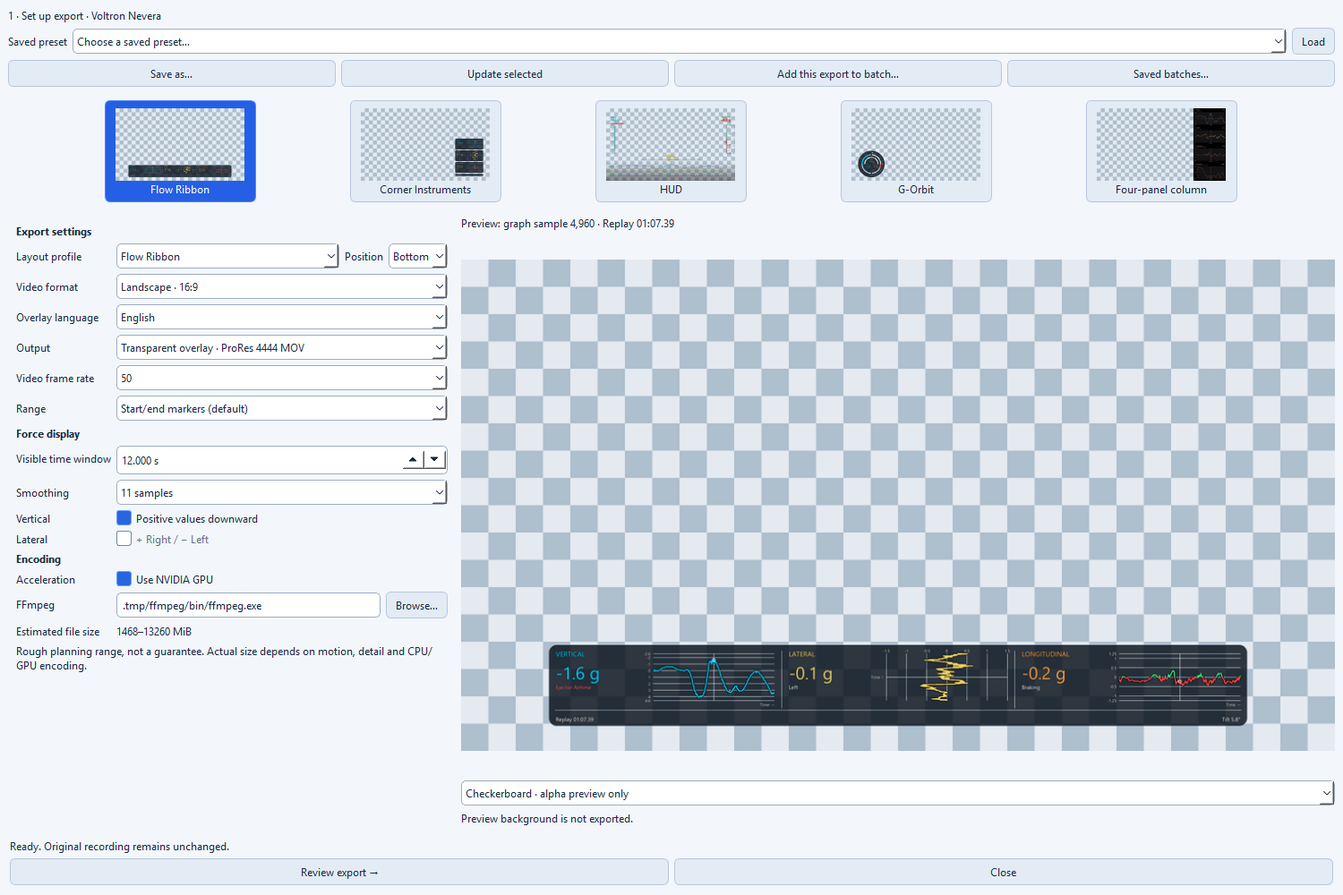
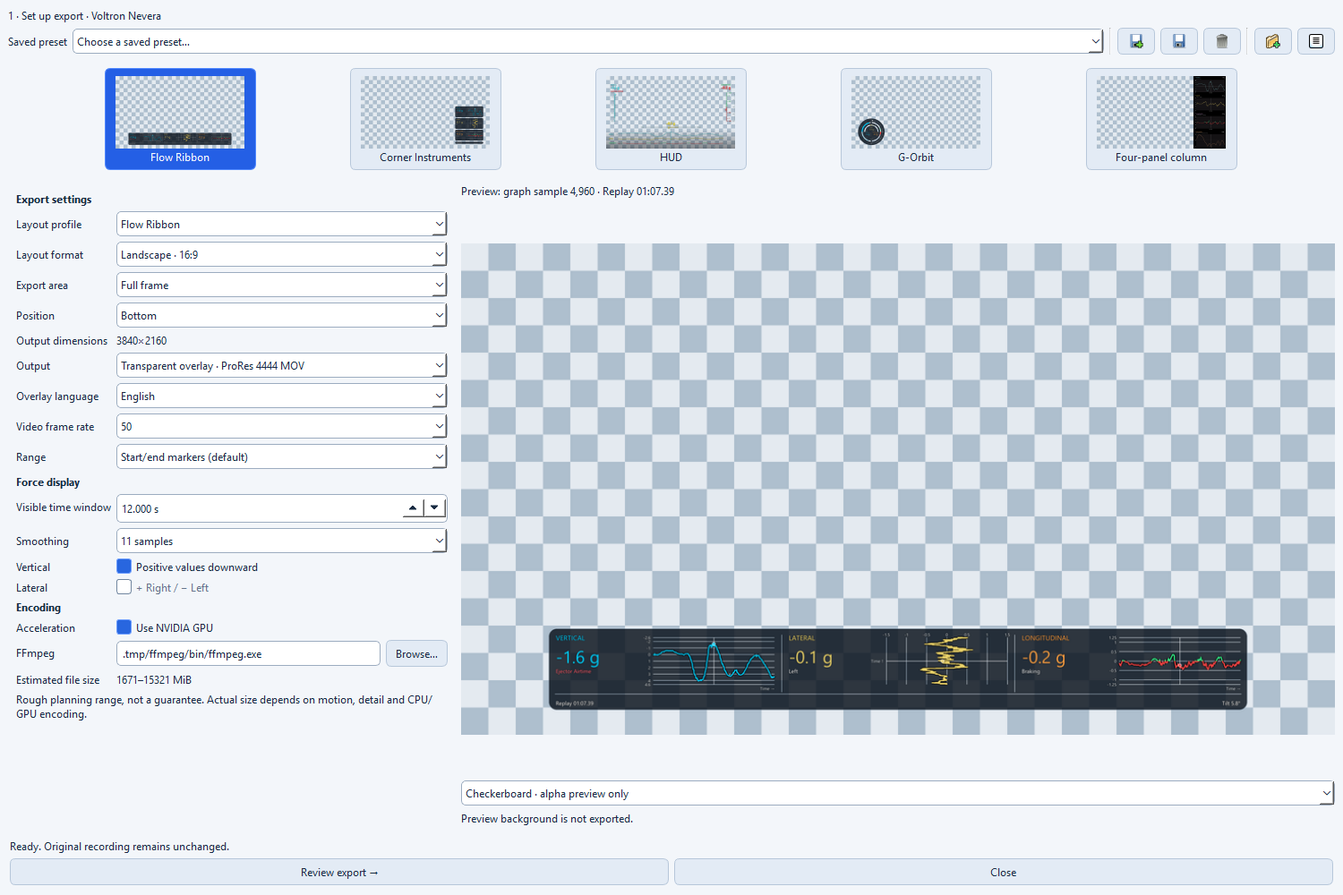
:memo: docs(rendering): finalize content-area export documentation
Why:
Align maintained documentation and reference images with the accepted export workflow.

Changes:
- Describe native dimensions, placement, estimates and supported layout formats.
- Rename the layout gallery and distinguish layouts from UI themes in the glossary.
- Refresh the assistant reference and verify Content-area export handoff.
- Align skill spelling across Markdown and instructions language ids.
- Record owner acceptance of all eight implementation steps.

diff --git a/scripts/capture_app_reference.py b/scripts/capture_app_reference.py
@@ -29,7 +29,8 @@ from ride_forces_analyzer.runtime.config import AppSettings
 from ride_forces_analyzer.storage.exports import ExportStore
 from ride_forces_analyzer.storage.preferences import Appearance
 from ride_forces_analyzer.ui.exports.video import ExportDialog
-from ride_forces_analyzer.rendering.layouts.contracts import LayoutPosition
+from ride_forces_analyzer.ui.dialogs.gps import GpsDialog
+from ride_forces_analyzer.rendering.layouts.contracts import ExportExtent, LayoutPosition
 from ride_forces_analyzer.ui.explorer.window import ExplorerWindow
 
 ROOT = Path(__file__).resolve().parents[1]
@@ -344,7 +345,7 @@ def capture_reference(
                     output.mkdir(parents=True, exist_ok=True)
                     window.gps_button.click()
                     gps_window = window.gps_window
-                    if gps_window is None:
+                    if not isinstance(gps_window, GpsDialog):
                         raise RuntimeError("Voltron GPS overview is unavailable")
                     wait_for(application, lambda: gps_window.worker is None)
                     gps_window.load_map()
@@ -430,8 +431,8 @@ def capture_reference(
                         newline="\n",
                     )
                     return
-                for appearance, name in ((0, "dark"), (1, "light")):
-                    window.set_appearance(appearance)
+                for appearance_index, name in ((0, "dark"), (1, "light")):
+                    window.set_appearance(appearance_index)
                     wait_for(application, lambda: window.theme.name == name)
                     save_widget(application, window, output / f"workspace-{name}.png")
                 dialog = ExportDialog(
@@ -444,6 +445,9 @@ def capture_reference(
                 dialog.setMinimumSize(*EXPORT_SIZE)
                 dialog.resize(*EXPORT_SIZE)
                 dialog.form.layout_profile.setCurrentIndex(0)
+                dialog.form.extent.setCurrentIndex(
+                    dialog.form.extent.findData(ExportExtent.FULL_FRAME.value),
+                )
                 dialog.form.position.setCurrentIndex(
                     dialog.form.position.findData(LayoutPosition.BOTTOM.value),
                 )
@@ -481,6 +485,7 @@ def capture_reference(
                     "workspace_size": WORKSPACE_SIZE,
                     "export_size": EXPORT_SIZE,
                     "layout": "ribbon",
+                    "extent": dialog.form.settings().extent.value,
                     "position": dialog.form.position.currentData(),
                     "aspect": "landscape",
                     "output": "transparent",

diff --git a/tests/ui/test_export.py b/tests/ui/test_export.py
@@ -2,7 +2,13 @@
 
 from ride_forces_analyzer.rendering.model import StandardFrameRate
 
-from ride_forces_analyzer.rendering.model import ExportLayout, VideoAspect, ExportExtent
+from ride_forces_analyzer.rendering.model import (
+    ExportLayout,
+    VideoAspect,
+    ExportExtent,
+    ExportTimeline,
+)
+from ride_forces_analyzer.rendering.layouts import resolve_geometry
 from ride_forces_analyzer.rendering.progress import ExportPhase, ExportProgress
 from ride_forces_analyzer.analysis.preparation import (
     source_app_configuration,
@@ -324,6 +330,8 @@ def test_export_file_dialogs_preserve_paths_and_successful_output_folder(
     dialog = window.export_window
     assert isinstance(dialog, ExportDialog)
     preview_ready(dialog)
+    dialog.form.extent.setCurrentIndex(dialog.form.extent.findData(ExportExtent.CONTENT_AREA.value))
+    preview_ready(dialog)
     dialog.next.click()
     with TemporaryDirectory(dir=".tmp") as temporary:
         output = Path(temporary).resolve() / "custom.mov"
@@ -338,7 +346,10 @@ def test_export_file_dialogs_preserve_paths_and_successful_output_folder(
         def encoder(path: Path | None = None) -> Path:
             return Path(__file__)
 
-        def export(*args: object, **kwargs: object) -> Path:
+        def export(timeline: ExportTimeline, target: Path, **kwargs: object) -> Path:
+            assert timeline.settings.extent is ExportExtent.CONTENT_AREA
+            assert resolve_geometry(timeline.settings).output_size == (3072, 360)
+            assert target == output
             assert kwargs["overwrite"] is output.exists()
             output.write_bytes(b"complete video")
             return output

diff --git a/tests/ui/test_reference_screenshots.py b/tests/ui/test_reference_screenshots.py
@@ -52,6 +52,7 @@ def test_capture_cli_is_repeatable_and_preserves_original_and_preferences() -> N
             assert manifest["smoothing"] == 11 and manifest["language"] == "en"
             assert manifest["layout"] == "ribbon" and manifest["fps"] == 50
             assert manifest["position"] == "bottom"
+            assert manifest["extent"] == "full_frame"
             pixels: dict[str, bytes] = {}
             for filename, size in (
                 ("workspace-dark.png", (1600, 1100)),

diff --git a/docs/implementation/VIDEO_EXPORT.md b/docs/implementation/VIDEO_EXPORT.md
@@ -24,14 +24,15 @@ the [roadmap](../ROADMAP.md) owns planned scope.
 
 ## Supported output
 
-| Setting            | Contract                                                                                                   |
-| ------------------ | ---------------------------------------------------------------------------------------------------------- |
-| Output             | One video per recording; transparent ProRes 4444 MOV (default) or independent opaque H.264 MP4             |
-| Canvas             | HUD: native 1920×1080 / 1080×1920; other profiles: 3840×2160 / 2160×3840                                   |
-| Profiles           | Flow Ribbon (assistant opening default), Corner Instruments, HUD, G-Orbit, four-panel column               |
-| Frame-rate choices | 23.976/24/25/30/50/59.94/60 fps; default 50 without a valid saved preference                               |
-| Context window     | 1–60 s, default 12; shared source position and centered cursor in time plots                               |
-| Alignment          | Manual in DaVinci Resolve; source-video ingestion/synchronization excluded                                 |
+| Setting            | Contract                                                                                       |
+| ------------------ | ---------------------------------------------------------------------------------------------- |
+| Output             | One video per recording; transparent ProRes 4444 MOV (default) or independent opaque H.264 MP4 |
+| Full-frame canvas  | HUD: native 1920×1080 / 1080×1920; other profiles: 3840×2160 / 2160×3840                       |
+| Export area        | Full frame (default) or complete native Content area; HUD supports Full frame only             |
+| Profiles           | Flow Ribbon (assistant opening default), Corner Instruments, HUD, G-Orbit, four-panel column   |
+| Frame-rate choices | 23.976/24/25/30/50/59.94/60 fps; default 50 without a valid saved preference                   |
+| Context window     | 1–60 s, default 12; shared source position and centered cursor in time plots                   |
+| Alignment          | Manual in DaVinci Resolve; source-video ingestion/synchronization excluded                     |
 
 [Manta overlay demo](https://youtu.be/0sGiE6F8YlI): all five layouts in turn over Onride footage.
 The additional [Manta HUD demo](https://youtu.be/JGcNPKoKU1Q) shows HUD using
@@ -63,9 +64,10 @@ unavailable in the selector and preview gallery; other layouts support both form
   Successful exports remember the destination folder across restarts, separately
   from the recording folder. Missing folders use dialog defaults; cancellation or
   failure preserves the previous folder.
-- Presets/immutable batch jobs explicitly retain aspect, overlay language, vertical
-  direction and analysis recipe; incomplete saved settings are rejected.
-  Mixed-aspect batches are supported.
+- Presets/immutable batch jobs retain aspect, export area, position, overlay language,
+  vertical direction and analysis recipe. Omitted optional fields use declared defaults,
+  including Full frame for `extent`; invalid supplied or missing required values fail.
+  Mixed-aspect and mixed-area batches are supported.
 - Python callers select `VideoAspect.LANDSCAPE` or `VideoAspect.PORTRAIT` from
   `rendering.model`; `VideoAspect(value)` converts supported text values.
   Saved JSON retains `landscape` and `portrait`; existing presets need no migration.
@@ -115,7 +117,7 @@ only when applicable. Controls and review labels support English, German and Fre
   source indices; layouts consume a bound `ExportTimeline`.
   Force/orientation views share prepared buffers; context uses full-history labels
   without per-layout reclassification.
-- Orientation is independent of force smoothing. Layout, aspect, position, language, video
+- Orientation is independent of force smoothing. Layout, aspect, export area, position, language, video
   rate and seeking do not recalculate analysis. Running exports/preview workers
   retain bound snapshots independently of later workspace changes.
   This includes custom Gravity/Incline references and subsequent resets: all five
@@ -147,14 +149,14 @@ only when applicable. Controls and review labels support English, German and Fre
 
 ### Geometry, directions and colors
 
-- All profiles fit the full canvas. Portrait Ribbon stacks force cards;
-  Corners, G-Orbit and Column preserve complete instruments with proportional
-  scaling/margins. Previews retain aspect without cropping/stretching.
-  Frame composition and encoder padding share region geometry.
+- Full frame fits the complete layout on its canvas, using proportional scaling
+  and layout-owned placement. Portrait Ribbon stacks force cards; Column supports
+  landscape only. Content area keeps the complete native image without added
+  margins or scaling. Previews retain aspect without cropping/stretching.
 - The export API accepts a layout/format-supported position or uses that format's
   default. Coordinates and dimensions come from the layout; frame composition,
   large previews, thumbnails and encoder padding use the same selected region.
-  The assistant offers localized positions beside Layout profile. Layout/format
+  The assistant offers a separate localized Position row for applicable Full-frame layouts. Layout/format
   changes retain a supported selection or choose an equivalent edge/corner on the
   same side. Without an equivalent, retain the layout's remembered supported
   position before falling back to its default. Thumbnails use the same policy.
@@ -290,8 +292,8 @@ only when applicable. Controls and review labels support English, German and Fre
 
 | Estimate             | Contract and limits                                                                                                                             |
 | -------------------- | ----------------------------------------------------------------------------------------------------------------------------------------------- |
-| File size            | Live approximate MiB range in settings/review, using rounded frame count, canvas/overlay area and codec; no FFmpeg or trial rendering           |
-| Size uncertainty     | HUD H.264 and GPU-preferred ProRes use measured references; other combinations use a generic heuristic. Neither guarantees bounds               |
+| File size            | Live approximate MiB range in settings/review using resolved dimensions, frame count and codec/extent rates; no FFmpeg or trial rendering       |
+| Size uncertainty     | Plugin-owned measured planning ranges per codec/extent; missing entries use the shared heuristic; estimates never guarantee bounds              |
 | Remaining frame time | Single and batch exports share `ExportProgress`; monotonic elapsed time per submitted frame × pending count; min:sec, including encoder startup |
 | ETA states           | Estimating before first frame; finalization after last frame has no predicted duration; cancel/failure/completion clears ETA                    |
 
@@ -347,7 +349,8 @@ shared heuristic; no rate is borrowed from a different extent.
   equals input size. MOV retains transparency; MP4 uses a black background.
   Full frame retains its scaling, canvas and placement. Column's
   Content area remains exactly 960 × 2160 without padding; HUD remains Full frame.
-  Previews use the resolved output geometry; Content-area assistant selection remains planned.
+  Previews, assistant dimensions, review and size estimates use the resolved output
+  geometry; presets and jobs retain the same typed area choice.
 - The save dialog confirms replacement of existing videos. An explicitly confirmed
   replacement atomically publishes the completed staged video on the same filesystem;
   cancellation or failure preserves the original. Other callers and batches default

diff --git a/docs/architecture/12_glossary.md b/docs/architecture/12_glossary.md
@@ -6,31 +6,33 @@
 | ----------------------------- | ---------------------------------------------------------------------------------------------- |
 | .forces                       | Read-only JSON recording exported by Ride Forces or the supported RFDB profile                 |
 | .zforces                      | Raw-DEFLATE-compressed Ride Forces recording; original compressed bytes remain source evidence |
-| Recording                     | Immutable canonical representation of validated recording data                                 |
-| SourceEnvelope                | Owned original bytes, immutable source tree and provenance                                     |
-| SourceNumber                  | Exact JSON number token/value, distinct from a numeric string                                  |
-| Provenance                    | Source identity and the origin of values, defaults and calculations                            |
-| Capability                    | Per-channel availability and evidence status                                                   |
-| Owner default                 | Rate 50 or Seated posture applied only to absent fields, without rewriting source data         |
-| MotionSequence                | Acceleration and optional gravity vectors; pairing establishes structure, not physical meaning |
-| Structural vector             | Retained direction/calibration vector without an inferred physical transform                   |
-| GPS slot                      | Original GPS sequence position, retained even without a usable typed fix                       |
-| Diagnostic                    | Severity, stable code, JSON Pointer, message and optional original sample index                |
-| JSON Pointer                  | RFC 6901 field location in the retained source                                                 |
-| ImportSuccess / ImportFailure | Complete-import result; failure exposes no Recording                                           |
-| DecodeSuccess                 | Valid supported source envelope; not a complete import or analysis result                      |
-| Qt-independent                | Usable without constructing or importing Qt widgets                                            |
-| Rider frame                   | Explicit rider coordinate frame whose physical mapping requires independent evidence           |
-| Opaque video                  | H.264 MP4 output with a filled background                                                      |
-| Alpha overlay                 | ProRes 4444 MOV output with transparency for compositing                                       |
-| POV                           | Point-of-view ride footage aligned in external video-editing software                          |
 | ADR                           | Architecture decision with rationale and evidence, retained in chapter 09                      |
+| Alpha overlay                 | ProRes 4444 MOV output with transparency for compositing                                       |
 | AnalysisProfile               | Immutable policy/configuration and explicit provisional permission                             |
 | AnalysisResult                | Immutable explicit device/frame result retaining its complete import and provenance            |
-| RecordingAnalysis             | Immutable shared snapshot of source, time and prepared analysis stages                         |
 | AnalysisService               | Qt-independent current state, revisions and subscriptions                                      |
+| Capability                    | Per-channel availability and evidence status                                                   |
+| DecodeSuccess                 | Valid supported source envelope; not a complete import or analysis result                      |
+| Diagnostic                    | Severity, stable code, JSON Pointer, message and optional original sample index                |
 | ExportTimeline                | Bound analysis snapshot, source interval and deterministic video clock                         |
+| GPS slot                      | Original GPS sequence position, retained even without a usable typed fix                       |
+| ImportSuccess / ImportFailure | Complete-import result; failure exposes no Recording                                           |
+| JSON Pointer                  | RFC 6901 field location in the retained source                                                 |
+| Layout                        | Export graphic design; owns its instruments, arrangement, geometry and supported placements    |
+| MotionSequence                | Acceleration and optional gravity vectors; pairing establishes structure, not physical meaning |
+| Opaque video                  | H.264 MP4 output with a filled background                                                      |
+| Owner default                 | Rate 50 or Seated posture applied only to absent fields, without rewriting source data         |
+| POV                           | Point-of-view ride footage aligned in external video-editing software                          |
+| Provenance                    | Source identity and the origin of values, defaults and calculations                            |
+| Qt-independent                | Usable without constructing or importing Qt widgets                                            |
+| Recording                     | Immutable canonical representation of validated recording data                                 |
+| RecordingAnalysis             | Immutable shared snapshot of source, time and prepared analysis stages                         |
+| Rider frame                   | Explicit rider coordinate frame whose physical mapping requires independent evidence           |
 | SampleValues                  | Owned float64 bytes, validity mask and read-only NumPy views                                   |
+| SourceEnvelope                | Owned original bytes, immutable source tree and provenance                                     |
+| SourceNumber                  | Exact JSON number token/value, distinct from a numeric string                                  |
+| Structural vector             | Retained direction/calibration vector without an inferred physical transform                   |
+| Theme                         | UI color scheme; controls the application's appearance                                         |
 | VERIFIED channel              | Verified only for its declared scope; raw-data verification does not qualify rider loading     |
 
 `OrthonormalFrame` stores right-handed target axes as rows in DEVICE coordinates.

diff --git a/docs/images/README.md b/docs/images/README.md
@@ -43,7 +43,7 @@ Source hashes and exact settings are retained in the linked generated manifests.
 | ----------------------------------------------------- | -------------------------------------------------------------------------------------------------------------------------------------------------------------------------------------------------------------------------------------------------------- | ---------------------------------------- |
 | `workspace-dark.png`, `workspace-light.png`           | Voltron Nevera sample 4960, replay `01:07.39`, selection 4200–5100, 11-sample smoothing; 1600×1100 workspace.                                                                                                                                            | [Application](app-reference.json)        |
 | `voltron-gps-overview.png`                            | Voltron Nevera GPS dialog, 850×650, English, full recorded route with first/last markers and an explicitly loaded OpenStreetMap background. Map details may change over time.                                                                            | [GPS](gps-reference.json)                |
-| `export-preview.png`                                  | Same Voltron sample and smoothing; 1500×1000 assistant, Flow Ribbon selected at the bottom, five layout thumbnails, landscape transparent output, 50 fps, 12-second window.                                                                              | [Application](app-reference.json)        |
+| `export-preview.png`                                  | Same Voltron sample and smoothing; 1500×1000 assistant, Flow Ribbon at the bottom, Full frame, 3840×2160 landscape transparent output, 50 fps, 12-second window.                                                                                         | [Application](app-reference.json)        |
 | Voltron layout images and `voltron-export-themes.png` | All five layouts at sample 8575, replay `02:20.04` (140.08 s at 50 Hz; recording time 171.50 s), marker interval 1571–10374, 11-sample smoothing; 3840×2160 placement views and detail crops. HUD uses a 30-second window; other layouts use 12 seconds. | [Voltron Nevera](voltron-reference.json) |
 | `voltron-airtime-detail.png`                          | Voltron sample 4960, replay `01:07.39`, interval 4500–5250, 11-sample smoothing; force curves, context strip and legend.                                                                                                                                 | [README details](readme-reference.json)  |
 | `taron-force-cards.png`                               | Taron sample 3399, replay `00:22.15`, 11-sample smoothing; vertical +0.05 g, lateral +0.35 g, longitudinal +1.08 g.                                                                                                                                      | [README details](readme-reference.json)  |

diff --git a/docs/user/EXPORT_LAYOUTS.md b/docs/user/EXPORT_LAYOUTS.md
@@ -33,9 +33,34 @@ Curves and pointers retain their full precision.
 | **Four-panel column**  | Right side                  | Compare force histories and a separate orientation curve.     |
 
 Flow Ribbon is selected when you first open the export assistant.
-The comparison above shows each layout at its own default position; assistant
-thumbnails follow your current position choices.
-[Open the larger detail views](../EXPORT_THEMES.md) to inspect each layout.
+The comparison above shows Full-frame output at each layout's default position;
+assistant thumbnails follow your export area and position choices.
+[Open the larger detail views](../EXPORT_LAYOUTS.md) to inspect each layout.
+
+## Export area and video size
+
+**Full frame** keeps the selected placement on a complete video frame. HUD uses
+1920×1080 landscape or 1080×1920 portrait; the other layouts use 3840×2160 or
+2160×3840. Four-panel column supports landscape only.
+
+**Content area** exports the complete smaller layout image, including any empty
+space already around its instruments. It does not crop or stretch the design.
+Place this clip where you want it in your video editor: your Full-frame position
+is remembered in the assistant, but is not included as empty video space.
+HUD always uses Full frame.
+
+| Layout             | Landscape Content area | Portrait Content area |
+| ------------------ | ---------------------- | --------------------- |
+| Flow Ribbon        | 3072×360               | 840×1120              |
+| Corner Instruments | 840×1120               | 840×1120              |
+| G-Orbit            | 800×800                | 800×800               |
+| Four-panel column  | 960×2160               | Unavailable           |
+| HUD                | Full frame only        | Full frame only       |
+
+**Layout format** chooses the arrangement; Content-area video need not be 16:9 or
+9:16. **Output dimensions** and **Review export** show the actual video size.
+Changing the area refreshes previews and the rough file-size estimate. Smaller
+dimensions do not guarantee a proportionally smaller video.
 
 ## Try a layout with your recording
 
@@ -138,5 +163,5 @@ The preview background is only a viewing aid; it does not add your footage or
 change the exported background. Alignment with footage is done manually in your
 video editor.
 
-[Video export guide](VIDEO_EXPORT.md) · [Full-size examples](../EXPORT_THEMES.md) ·
+[Video export guide](VIDEO_EXPORT.md) · [Full-size examples](../EXPORT_LAYOUTS.md) ·
 [Developer layout reference](../development/EXPORT_LAYOUTS.md)

diff --git a/README.md b/README.md
@@ -143,20 +143,22 @@ It uses the supplied [Manta reference recording](docs/development/RECORDINGS.md#
 | **Four-panel column**  | Stacked force and orientation plots.                    |
 
 [Choose a layout](docs/user/EXPORT_LAYOUTS.md) or
-[compare larger previews](docs/EXPORT_THEMES.md).
+[compare larger previews](docs/EXPORT_LAYOUTS.md).
 
-Export themes use yellow for lateral data, green for acceleration and red for
+Export layouts use yellow for lateral data, green for acceleration and red for
 braking. Flow Ribbon, Corner Instruments and HUD also show the
 current vertical context with the same colors and labels as the workspace.
 
-Every layout supports **landscape** for classic YouTube videos and **portrait**
-for Shorts or TikTok. HUD exports at its native **1920×1080** or **1080×1920**;
-scale it to your timeline in your video editor. The other layouts export in 4K.
-Choose **Position** beside the layout to keep the action clear.
+Choose **landscape** for classic YouTube videos or **portrait** for Shorts or
+TikTok. Four-panel column supports landscape only. **Full frame** keeps the selected
+position on a complete video canvas: native **1920×1080** or **1080×1920** for HUD,
+4K for the other layouts. **Content area** exports the smaller layout image for
+placement in your video editor; **Output dimensions** shows its exact size.
+HUD always uses Full frame. [Compare export areas](docs/user/EXPORT_LAYOUTS.md#export-area-and-video-size).
 Export the whole recording, its marker interval or your
 selected section. Choose the overlay language independently of the application.
 
-![Export assistant showing layout thumbnails, the Position selector and a Flow Ribbon preview with Ejector Airtime](docs/images/export-preview.png)
+![Export assistant showing layout thumbnails, Export area and Position choices, output dimensions and a Flow Ribbon preview with Ejector Airtime](docs/images/export-preview.png)
 
 *Preview the selected chart moment before rendering. The checkerboard indicates transparency and is not part of the video.*
 

diff --git a/docs/development/EXPORT_LAYOUTS.md b/docs/development/EXPORT_LAYOUTS.md
@@ -51,7 +51,8 @@ declared canvas, including nondefault entries. Canvases must fit within the maxi
 3840×2160 landscape or 2160×3840 portrait dimensions.
 `ExportSettings.position` accepts a `LayoutPosition`; `None` selects the format's
 default. Unsupported layout/format combinations and raw string positions raise
-`ValueError`. Rendering, previews and encoder padding resolve the same region.
+`ValueError`. Full-frame rendering, previews and encoder padding resolve the same region;
+Content area ignores placement and uses its independent native dimensions.
 `LayoutPositions.select` retains supported positions, otherwise chooses an equivalent
 edge/corner on the same vertical or horizontal side. The assistant remembers each
 layout's current position for its lifetime. That position supplies an unspecified
@@ -72,7 +73,7 @@ Coordinates remain layout-owned and are not stored in presets/jobs.
 `LayoutPosition.FULL_SCREEN` serializes as `full_screen`. HUD uses this single
 position with a region covering its native 1920×1080 or 1080×1920 export canvas.
 The compositor and encoder retain these dimensions without upscaling; the other
-profiles use 4K canvases. Switching from a
+profiles use 4K canvases for Full frame. Switching from a
 full-screen layout restores another layout's remembered position when available,
 otherwise its default. No corner/edge is inferred from a full-screen position.
 
@@ -295,7 +296,7 @@ force interpolation or independent orientation buffers.
    encoder consume the registration without layout-specific branches.
 4. Verify registry coverage, region bounds, force directions, alpha and localized
    text. Use representative video integration rather than a full option matrix.
-   Regenerate the fixed-sample [Voltron Nevera reference](../EXPORT_THEMES.md) to review
+   Regenerate the fixed-sample [Voltron Nevera reference](../EXPORT_LAYOUTS.md) to review
    intended design changes. Structural changes must preserve existing pixels.
 
 Registry tests also substitute a small custom renderer to verify that composition

diff --git a/docs/ROADMAP.md b/docs/ROADMAP.md
@@ -11,7 +11,7 @@ owns system design and scientific boundaries.
 | M3 — Analysis              | Complete | Immutable models, device/frame APIs, source-app projection/mean, extrema, shared snapshots/service and provisional context/events; [analysis contracts](development/ANALYSIS_MODELS.md) |
 | M4 — Explorer              | Complete | Raw/calibrated charts, markers, time zoom, selection/extrema, GPS, appearance themes and EN/DE/FR UI                                                                                    |
 | M5 — Playback              | Complete | Sample playback at 0.5×/1×/2×, pause/resume and seeking                                                                                                                                 |
-| M6 — Exports               | Complete | Five layouts (native HD HUD, otherwise 4K), both aspects, transparent/opaque video, previews, presets/batches, CSV/JSON, optional NVIDIA                                                |
+| M6 — Exports               | Complete | Five layouts, supported aspects, Full-frame/native-area video, transparent/opaque output, previews, presets/batches, CSV/JSON, optional NVIDIA                                          |
 | M7 — Video synchronization | Closed   | Not feasible within project scope: no simple, reliable automation with available data; alignment remains in external video editors                                                      |
 | M8 — Windows release       | Complete | Portable EXE, standard/complete ZIPs, notices and tag pipeline; owner-confirmed clean-Windows EXE launch; accepted redistribution scope                                                 |
 | M9 — Linux / macOS         | Partial  | Native Linux x64/macOS arm64/x64 packages and mandatory runtime CI; clean-machine qualification remains open                                                                            |

diff --git a/docs/EXPORT_LAYOUTS.md b/docs/EXPORT_LAYOUTS.md
@@ -14,6 +14,8 @@ reproduction commands and image licensing are documented in the
 ![Five Voltron Nevera export layouts at the same positive vertical-force peak with simultaneous lateral and braking forces](images/voltron-export-themes.png)
 
 The overview preserves placement in the full 3840×2160 landscape canvas.
+These are Full-frame placement examples. For smaller Content-area exports and
+their dimensions, see [export area and video size](user/EXPORT_LAYOUTS.md#export-area-and-video-size).
 Checkerboards illustrate transparent space and translucent panels; they are
 not exported. Detail views below enlarge each instrument region.
 These are actual production-renderer frames, not interface mockups.
@@ -24,13 +26,13 @@ centered zero axis. G-Orbit shows the current lateral force on an upper inner
 semicircle: negative left, positive right, with equal scale in both directions.
 Longitudinal acceleration is always above zero and braking below zero, including
 G-Orbit's right semicircle; numeric signs remain unchanged.
-Across all themes, lateral diagrams and bars are yellow. G-Orbit uses muted yellow
+Across all layouts, lateral diagrams and bars are yellow. G-Orbit uses muted yellow
 for lateral peak markers and translucent peak fills. Longitudinal data is green
 for acceleration and red for braking.
 This applies to curves and their current-point markers, and to G-Orbit's current
 arc, peak fills and peak markers. Channel headings and numeric text retain their
-theme colors.
-Theme graphics contain no Hz/fps labels; source sample rate and overlay export
+layout colors.
+Layout graphics contain no Hz/fps labels; source sample rate and overlay export
 frame rate are technical settings, not the frame rate of the underlying video.
 Flow Ribbon, Corner Instruments and HUD show source-time vertical
 context using the provisional [airtime heuristic](implementation/AIRTIME.md).

diff --git a/.agents/skills/update-screenshots/SKILL.md b/.agents/skills/update-screenshots/SKILL.md
@@ -53,7 +53,7 @@ image set as refreshed. Do not use incomplete output as a reference.
   recording, replay time, sample, smoothing, force values and visible context.
   Update descriptions in place when needed. Retain the existing links on coaster
   names and the distinction between provisional context and measured forces.
-- Check the linked [layout gallery](../../../docs/EXPORT_THEMES.md) when its
+- Check the linked [layout gallery](../../../docs/EXPORT_LAYOUTS.md) when its
   images change. Follow the [central image guide](../../../docs/images/README.md)
   for reproduction settings, licensing and attribution.
 - Inspect the diff for unintended image/document changes. Preserve unrelated
@@ -63,7 +63,7 @@ image set as refreshed. Do not use incomplete output as a reference.
 
 The [Pages start page](../../../index.html) renders the README directly; do not
 maintain a second copy of its content. Read the
-[website setup](../../../docs/development/SETUP.md#project-website) when reviewing
+[website setup](../../../docs/development/SETUP.md), section **Project website**, when reviewing
 the [layout](../../../_layouts/default.html),
 [stylesheet](../../../assets/css/style.scss) and
 [Pages configuration](../../../_config.yml).
